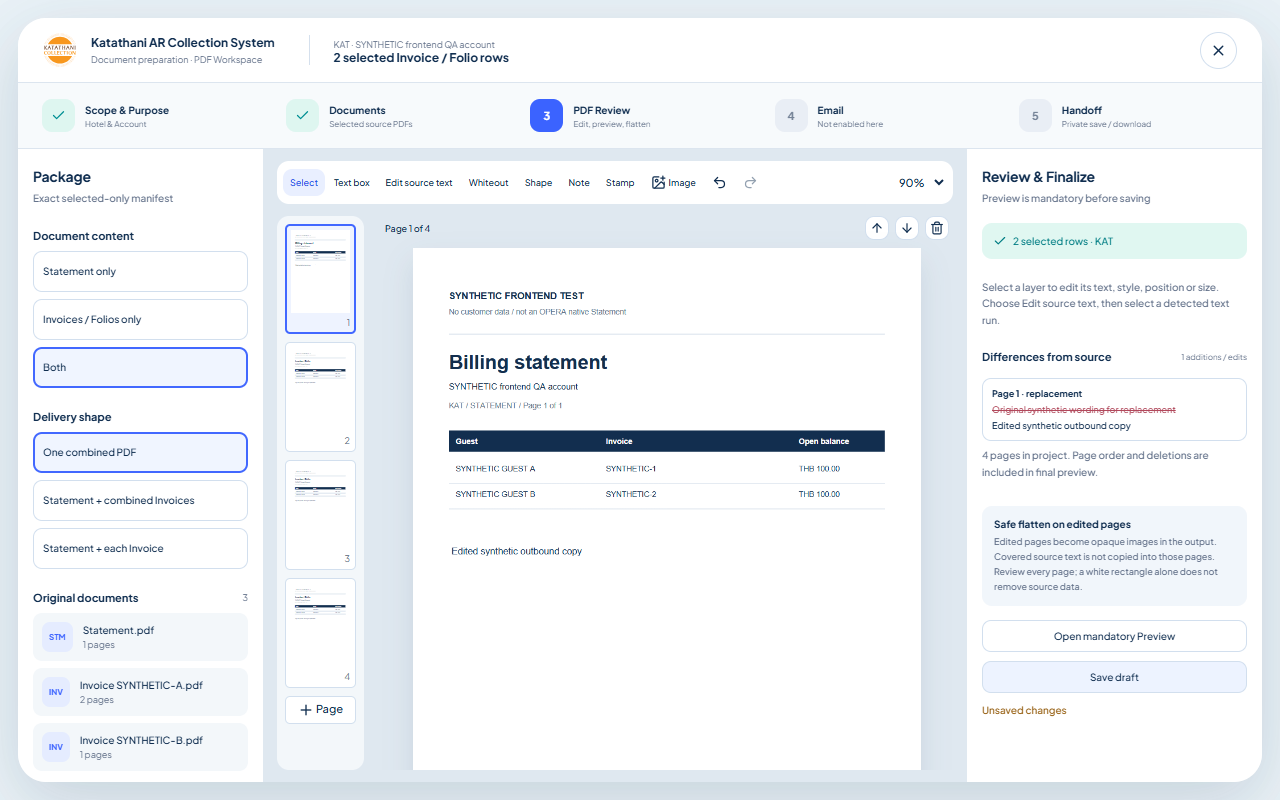
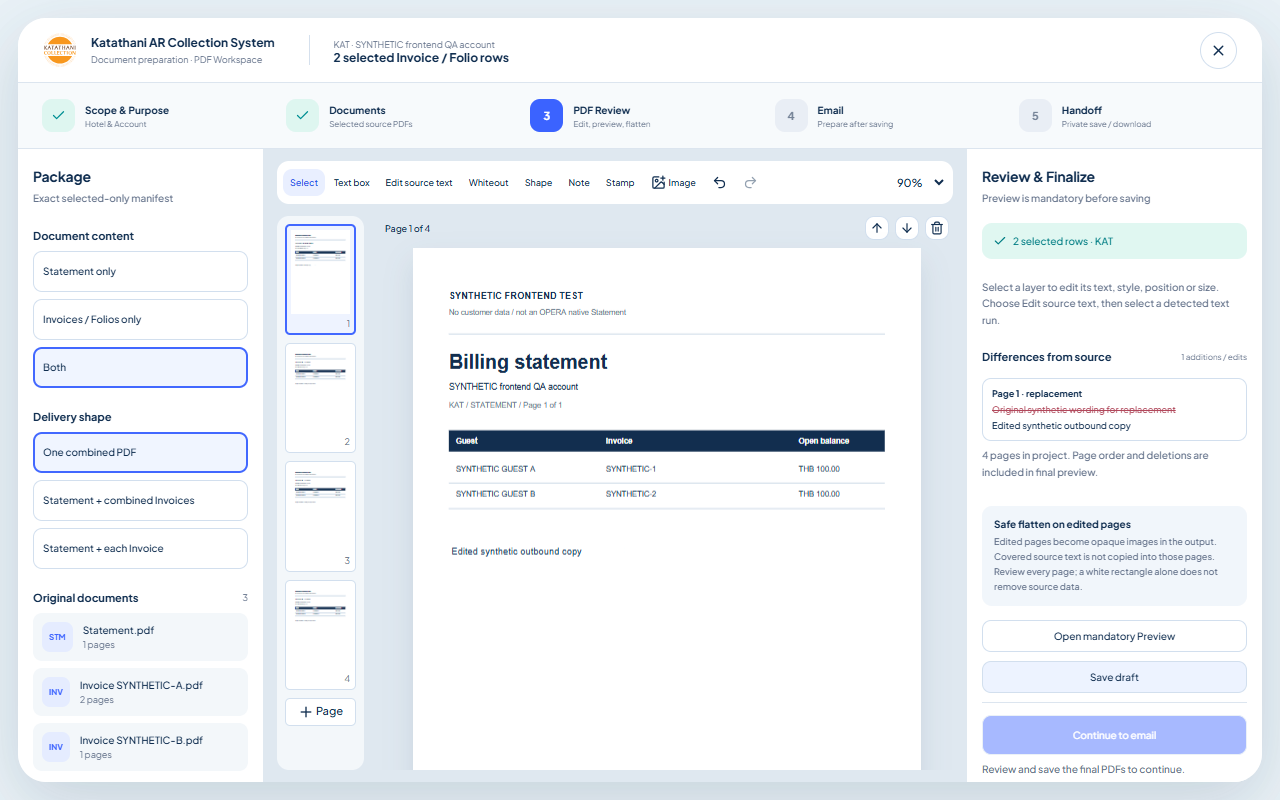
docs: record deployed PDF clarity and email handoff checks

diff --git a/tests/browser/pdf-workspace-production.spec.ts b/tests/browser/pdf-workspace-production.spec.ts
@@ -74,6 +74,7 @@ for (const viewport of [{ width: 1440, height: 900 }, { width: 1280, height: 800
     await page.getByRole('button', { name: 'Open mandatory Preview', exact: true }).click();
     await expect(page.locator('.pdf-final-pages canvas')).toHaveCount(4);
     await expect(page.getByRole('img', { name: 'Final PDF page 1', exact: true })).toBeVisible();
+    await expect(page.locator('.pdf-preview-files button').first()).toHaveAttribute('data-reviewed','true');
     await expect(page.getByRole('button', { name: 'Save reviewed PDFs privately', exact: true })).toBeDisabled();
     await page.screenshot({ path: `evidence/pdf-workspace-cloudflare-final-preview-${viewport.width}x${viewport.height}.png`, animations: 'disabled' });
     expect(scripts.length).toBeGreaterThan(0); expect(unexpectedApis).toEqual([]); expect(pageErrors).toEqual([]);

diff --git a/docs/PROJECT_STATUS.md b/docs/PROJECT_STATUS.md
@@ -6,7 +6,9 @@
 - Editor/thumbnail/source preview ใช้ขนาด CSS กับ devicePixelRatio และ re-render เมื่อขนาด/ความละเอียดจอเปลี่ยน ตาม [PDF.js HiDPI guidance](https://mozilla.github.io/pdf.js/examples/). Final Preview เพิ่ม Zoom ถึง 200% และเรนเดอร์หน้าที่อยู่ใน viewport ให้คม; หน้าไกล viewport ใช้ภาพเบา โดยคง pixel budget และการ render ทีละหน้า ไม่เก็บทุกหน้าเป็น bitmap ขนาดเต็มพร้อมกัน
 - Edited-page export เปลี่ยนจาก scale 2 เป็นเป้าหมาย 300 dpi ภายใต้ 20M pixel/page cap เดิม. หน้าที่ไม่มีการแก้ยัง copy native PDF; ตรวจหน้า A4 ที่แก้มี embedded image กว้างอย่างน้อย 2480px และไม่มี hidden original text. Whiteout/color/image/reorder/reopen tests ผ่าน
 - เพิ่ม Continue to email ทั้ง final-preview หลัง save และแผงขวา. ใช้ได้เฉพาะ latest project ที่ review/save สำเร็จหรือ saved project ที่ restore พร้อม acknowledgment; draft/new edits/start-from-original ไม่อาศัย acknowledgment ของไฟล์เก่า. ส่ง job ID + saved revision เข้า Email preparation; การเข้า Composer ไม่ส่ง Gmail. กลับออกมาแล้วเปิด project ล่าสุดได้
-- Local: 22 PDF/DocumentRoute browser cases ผ่าน, เพิ่ม save-failure guard ผ่าน, full unit 811/87 files และ typecheck/build ผ่าน. HiDPI/200% ใช้ DPR 2; browser fixtures และภาพใน Git เป็น synthetic เท่านั้น. กำลังตรวจบน Cloudflare; ยังไม่อ้างว่าข้อมูลลูกค้าถูกแก้หรือส่งอีเมลแล้ว
+- Local: 22 PDF/DocumentRoute browser cases ผ่าน, เพิ่ม save-failure guard ผ่าน, full unit 811/87 files และ typecheck/build ผ่าน. HiDPI/200% ใช้ DPR 2; browser fixtures และภาพใน Git เป็น synthetic เท่านั้น
+- Deployed source `1c938970a9a9155108dcda328060f7c5b745765f`, Worker `f92a45d6-5798-41fd-8923-801a128af23c`; health ตรง SHA/database_verified. Cloudflare browser 20 cases ผ่าน รวม editor 1440×900/1280×800, private access 401, reviewed save→email, save failure, draft/reopen และ explicit Gmail controls (Gmail calls เป็น fixtures ไม่มีการส่งจริง). [PR #5](https://github.com/NTHV9/ar-workspace/pull/5) Merge แล้ว `1db209efbe4845b99207e25a0681e5d59eca3dc4`, CI ผ่านและ merge tree ตรง tested source
+- เปิด saved project จริงที่เจ้าของแจ้งแบบอ่านอย่างเดียว: acknowledgment เดิมครบและ Continue to email เปิดใช้งานได้. Canvas ในจอ DPR 2 กว้าง 998 physical pixels สำหรับ 498.6 CSS pixels ตามขนาดแสดงจริง. ไม่กดบันทึก/เขียนอีเมลกับเอกสารลูกค้าในการตรวจ; รูปข้อมูลจริงไม่อยู่ใน Git
 - ไม่มี migration/credential/บริการใหม่ และไม่เปลี่ยนเอกสารลูกค้าเพื่อทดสอบ
 
 ## Checkpoint Financial range status — 11 กันยายน 2026
